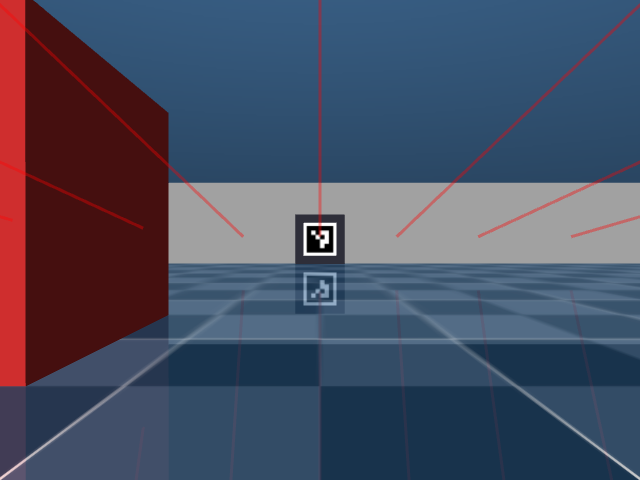
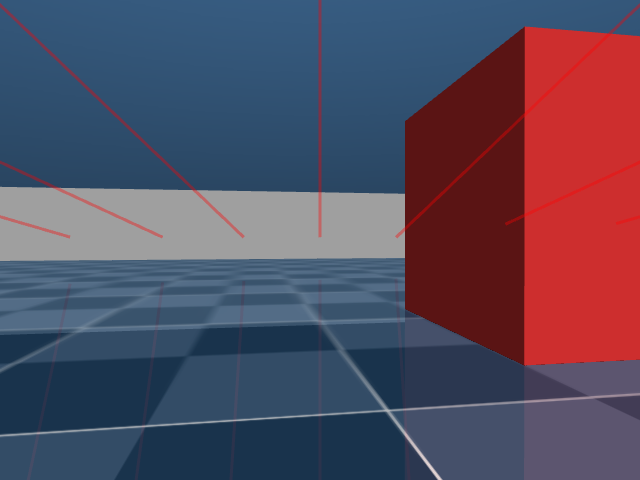
Part A mostly completed

diff --git a/tb3_project/model.py b/tb3_project/model.py
@@ -4,11 +4,12 @@
 #
 # State   x = [x, y, theta]   position in the world frame (m) and heading (rad)
 # Input   u = [v, omega]      forward speed (m/s) and turn rate (rad/s)
-# Robot numbers come from robot/tb3_waffle_pi_sensors.xml:
+# Robot numbers come from robotis_tb3/turtlebot3_waffle_pi.xml:
 
 import numpy as np
 
-r = 0.033      # wheel radius (m)
+
+r = 0.033      # wheel radius m verified in the STL file
 L = 0.288      # wheel separation (m), wheels at y = +0.144 and y = -0.144
 W_MAX = 7.88   # max wheel speed (rad/s)
 
@@ -19,16 +20,16 @@ W_MAX = 7.88   # max wheel speed (rad/s)
 #     v     = r * (w_right + w_left) / 2
 #     omega = r * (w_right - w_left) / L
 def wheels_to_body(w_left, w_right):
-    v = None       # TODO A1
-    omega = None   # TODO A1
+    v = r * (w_right + w_left) /2       
+    omega = r * (w_right - w_left) /L     
     return v, omega
 
 
 def body_to_wheels(v, omega):
     # the inverse of the above. Solve the two equations for w_left and w_right.
     # The controller needs this to turn (v, omega) into wheel commands.
-    w_left = None    # TODO A1
-    w_right = None   # TODO A1
+    w_left = (v - (omega * L) /2 ) / r   
+    w_right = (v + (omega * L) /2) / r
     return w_left, w_right
 
 
@@ -93,8 +94,12 @@ def jacobian_G(x, u, dt):
 # Sanity check on the signs: if the robot is behind the reference, e_x > 0, and a
 # positive dv must make e_x shrink. B[0,0] = -dt does exactly that.
 def linear_error_model(v_ref, omega_ref, dt):
-    A = None   # TODO A4
-    B = None   # TODO A4
+    A = np.array([[ 1,            omega_ref*dt,  0        ],
+          [-omega_ref*dt, 1,             v_ref*dt ],
+          [ 0,            0,             1        ]])
+    B = np.array([[-dt,  0  ],
+          [ 0,   0  ],
+          [ 0,  -dt ]]) 
     return A, B
 
 
@@ -107,16 +112,17 @@ def linear_error_model(v_ref, omega_ref, dt):
 #   * C for "encoders only" (nothing measures x,y,theta directly -> what rank?)
 #   * C = H (the measurement Jacobian from ekf.py) for range+bearing to the marker
 def controllability_matrix(A, B):
-    # TODO A5
-    return None
+    Ctrb = np.hstack([B, A @ B, A @ A @ B])
+    return Ctrb
 
 
 def observability_matrix(A, C):
-    # TODO A5
-    return None
+    Obsv = np.vstack([C, C @ A, C @ A @ A])
+    return Obsv
 
 
 if __name__ == "__main__":
+    import ekf
     # self-checks: run  python model.py
     print("wheels_to_body(5, 5) ->", wheels_to_body(5.0, 5.0), " expect v=0.165, omega=0")
     print("wheels_to_body(-5, 5) ->", wheels_to_body(-5.0, 5.0), " expect v=0, omega=1.146")
@@ -128,3 +134,34 @@ if __name__ == "__main__":
         print("rank Ctrb, v_ref=0.2 ->", np.linalg.matrix_rank(controllability_matrix(A, B)), " expect 3")
         A0, B0 = linear_error_model(0.0, 0.0, 0.02)
         print("rank Ctrb, v_ref=0   ->", np.linalg.matrix_rank(controllability_matrix(A0, B0)), " expect 2")
+        
+        
+        m = np.array([2.888, 0.0])   # dock marker position from sceneforturtle.xml
+        x_test = np.array([0.0, 0.0, 0.0])
+
+        # robot moving forward at 0.2 m/s
+        F_move = jacobian_F(x_test, np.array([0.2, 0.0]), 0.02)
+        
+        # robot parked
+        F_park = jacobian_F(x_test, np.array([0.0, 0.0]), 0.02)
+
+        C_none = np.zeros((1, 3))           # encoders only, nothing measures x, y, theta
+        C_pose = np.eye(3)                  # camera gives x, y, theta directly
+        C_rb = ekf.jacobian_H(x_test, m)    # camera gives range + bearing to the marker
+
+        print("rank Obsv, encoders only        ->", np.linalg.matrix_rank(observability_matrix(F_move, C_none)), " expect 0")
+        print("rank Obsv, full pose            ->", np.linalg.matrix_rank(observability_matrix(F_move, C_pose)), " expect 3")
+        
+        x0 = np.array([0.0, 0.3, 0.2])      # start pose, not lined up with the marker
+        for u_try in [np.array([0.2, 0.0]), np.array([0.2, 0.5]), np.array([0.0, 0.5])]:
+            x1 = f(x0, u_try, 0.02)
+            x2 = f(x1, u_try, 0.02)
+            F0 = jacobian_F(x0, u_try, 0.02)
+            F1 = jacobian_F(x1, u_try, 0.02)
+
+            H0 = ekf.jacobian_H(x0, m)
+            H1 = ekf.jacobian_H(x1, m)
+            H2 = ekf.jacobian_H(x2, m)
+
+            Obsv_traj = np.vstack([H0, H1 @ F0, H2 @ F1 @ F0])
+            print("rank Obsv, range+bearing along path, u =", u_try, "->", np.linalg.matrix_rank(Obsv_traj), " expect 2")     

diff --git a/tb3_project/validatemodel.py b/tb3_project/validatemodel.py
@@ -1,0 +1,37 @@
+import mujoco
+import numpy as np
+from pathlib import Path
+import model as tb3
+
+scene = Path(__file__).parent.parent / "robotis_tb3" / "sceneforturtle.xml"
+mj = mujoco.MjModel.from_xml_path(str(scene))
+data = mujoco.MjData(mj)
+dt = mj.opt.timestep
+
+print("loaded, timestep = ", mj.opt.timestep)
+data.ctrl[:] = [2.0, 4.0] #set both wheel to 3 rad/s 
+
+pose_pred = np.zeros(3)
+prev_left = 0.0
+prev_right = 0.0
+
+for step in range(5000):
+    mujoco.mj_step(mj, data) #moves simulation forward one tick (0.002)
+    
+    left_angle = data.sensordata[0]
+    right_angle = data.sensordata[1]
+    w_left = (left_angle - prev_left) / dt
+    w_right = (right_angle - prev_right) /dt
+    prev_left = left_angle
+    prev_right = right_angle
+    
+    v, omega = tb3.wheels_to_body(w_left, w_right)
+    pose_pred = tb3.f(pose_pred, np.array([v, omega]), dt)
+    
+w, qx, qy, qz = data.qpos[3:7] #rotation stored as a quaternion 
+yaw_true = np.arctan2(2 * (w * qz + qx * qy), 1 - 2 * (qy * qy + qz * qz)) #turns quaternion into heading angle 
+pose_true = np.array([data.qpos[0], data.qpos[1], yaw_true]) #packs all together
+
+print("true pose after 2 s:", pose_true)
+print("model pose after 2 s", pose_pred)
+print("error (model - true)", pose_pred - pose_true)

diff --git a/robotis_tb3/config.py b/robotis_tb3/config.py
@@ -1,0 +1,34 @@
+import numpy as np
+
+#wheel variables
+leftwheelpos = np.array([0, 0.144, 0.033]) #coordinates of wheel in xyz
+rightwheelpos = np.array([0, -0.144, 0.0033])
+wheelseperationL = leftwheelpos[1] - rightwheelpos[1] #distance between wheel
+wheelR = 0.033 #wheel radius
+
+#motors of turtlebot (velocity)
+kv = 5.0 #kv, servo gain
+friction = 0.1 #friction of joints
+armature = 0.01 #extra rotational interia (Instant Speed)
+ctrlrange = [-7.88, 7.88] #maximum range
+wheelspeedmax = ctrlrange[1] #maximum output
+
+maxvelocity = wheelR * wheelspeedmax  #m/s maximum velocity turtle can move
+wmax = 2 * wheelR * wheelspeedmax / wheelseperationL #maximum rad/s on spot
+
+dt = 0.02 #control period s
+physics_dt = 0.002
+steps_perctrl = int(dt / physics_dt)
+
+lidarpos = np.array([-0.049, 0, 0.17]) #position of lidar
+lidaryaw = 0.0
+lidarbeams = 36 
+lidarstep = np.deg2rad(10)
+lidarmaxrange = 3.5
+camerapos= np.array([0.07, 0, 0.15]) #camera 'rgb'
+camerayaw = 0.0 
+camerafovy = 60 #deg
+
+#sensor names in the xml
+encnames = ["enc_left", "enc_right"]
+velnames = ["vel_left", "vel_right"]

diff --git a/robotis_tb3/simulation_turtlebot.py b/robotis_tb3/simulation_turtlebot.py
@@ -5,6 +5,7 @@ import numpy as np
 import cv2
 from spatialmath import SE2
 
+
 model_path = Path(__file__).parent / "sceneforturtle.xml"
 model = mujoco.MjModel.from_xml_path(str(model_path))
 data = mujoco.MjData(model)

diff --git a/README.md b/README.md
@@ -1,2 +1,166 @@
 # 41014-Sensors-and-Control-in-Mechatronics-Systems-Assessment-4-Integrated-Project
 This is a group project. Teams integrate sensing, estimation and control on a simulated platform.
+
+Gabriel: Part A Modelling
+Dinel: Part B Sensing
+Abdul: Part C Estimation 
+Andre:Part D Control
+
+All Group Memebers: We completed the integration and robustness to test all our parts and performance under disturbance noise
+
+Part A Gabriel Modelling Section:
+
+###Robot Defintion:
+Verified Parameters: L (wheel seperation) = 0.288, max commanded wheel speed limits = -7.88, 7.88
+Wheel radius = 0.033m
+Python updates the model every 0.02 seconds
+
+###Assumptions:
+-No Slip: The speed is very low and the contact friction is pretty high enough that the slip is negligible
+
+-Flat Floor: Also being a simulated environment, we can safely assume that the floor we create is flat with no uneven surfaces
+
+-Kinematic Model: In a dynamic model, it would include motor torque, wheel interia, friction, etc... but in a kinematic does not include that, assuming that the v, ω act straight away which the model only tracks position and heading. We assume this as the Turtlebot is small and slow, which the motor have their own speed controllers so the commandedd wheel speed is reached within one dt. 
+
+###States and Inputs: 
+	$$\mathbf{x} = \begin{bmatrix} x \\ y \\ \theta \end{bmatrix}$$
+This state holds where the robot currently is (x,y) and θ is which way the robot faces. All of this is measured in the world frame, with the origin in the starting pose. The units are in m and rad
+
+inputs: 
+	$$\mathbf{u} = \begin{bmatrix} v \\ \omega \end{bmatrix}$$
+The two inputs that the robot takes are the commanded velocity, (how fast it goes foward in m/s) and how fast it turns in rad/s. Positive ω is considered anticlockise
+
+###Controller (Wheels):
+Velocity:
+	$$v = \frac{r(\omega_R + \omega_L)}{2}$$
+
+
+Turn Speed (Omega)
+	$$\omega = \frac{r(\omega_R - \omega_L)}{L}$$
+
+The controller can only work in v and ω, due to how the error model is designed. The MuJoCo robot can only accept left and right wheel speeds. The two formulas convert one to the other as v is the average between the two wheel rim speeds which their difference is divided by the gap between the wheels.
+
+
+###Inverse
+
+Left Wheel: 
+	$$\omega_L = \frac{v - \omega L/2}{r}$$
+
+Right Wheel:
+	$$\omega_R = \frac{v + \omega L/2}{r}$$
+
+We can get the individual wheel speeds by taking the inverse of the above equations. Body To wheels. This is used in every control step to send wheel commands to the robot.
+
+
+###Continous Time Model
+
+$$\dot{x} = v\cos\theta$$
+
+$$\dot{y} = v\sin\theta$$
+
+$$\dot{\theta} = \omega$$
+
+Above is the standard unicycle model, where the robot can only move along its heading and spin, but can't move sideways. These models are not linear due to v being multiplied by cos θ and sin θ, which is an input multiplied by a function of a state. This matters as the EKF and LQR requires a linear model which we have to linearise.
+
+We have two linearisations, one used by the EKF and one used by the LQR.
+
+###Linearisations 1 -  Jacobians F and G
+The idea is that near the current estimate, we replace the curved function f with its slopem which the slope of the function of several variables is a matrix of partial deratives which we get the Jacobians F and G.
+
+$$x_{k+1} = x_k + v_k\Delta t\cos\theta_k$$
+
+$$y_{k+1} = y_k + v_k\Delta t\sin\theta_k$$
+
+$$\theta_{k+1} = \theta_k + \omega_k\Delta t$$
+
+From the discrete model, we differentiated each line with respect to each state to get the Jacobian F
+
+$$F = \frac{\partial f}{\partial \mathbf{x}} = \begin{bmatrix} 1 & 0 & -v_k \Delta t \sin\theta_k \\ 0 & 1 & v_k \Delta t \cos\theta_k \\ 0 & 0 & 1 \end{bmatrix}$$
+
+F Jacobian describes how small errors in the robots current positon an headidng affect its next predricted pose. 
+
+From this, we can call F[0,2] and F[1,2] to tell the EKF how far off x and y end up if theat is slightly wrong, which is scaled by the distance moved that step (v Δt) which is the Jacobian_F() function in model.py.
+
+Then we differentiated each line with respect to each input to get Jacobian G
+
+
+$$G = \frac{\partial f}{\partial \mathbf{u}} = \begin{bmatrix} \Delta t \cos\theta_k & 0 \\ \Delta t \sin\theta_k & 0 \\ 0 & \Delta t \end{bmatrix}$$
+
+
+This Jacobian, pretty much maps the uncertainty or small changes in the speed andd yaw rate into each pose step. Each column represnts an input with each row representing a  state. 
+
+Column 0 (v), pushes the speed up a bit, moving along the heading via cos θ / sin θ.Column 1 (ω), pushes the turn rate up a bit by only θ changes by Δt per unit of ω.
+
+F and G are recomputedd every step at the current estimate and input because they depend on θ and v. These are used by the EKF, which uses them in the predict step F to push the covariance forward and G to add the input noise. 
+
+
+###Linearisations 2 -  Error Model A and B (LQR)
+Unfortunately LQR cannot use F and G directly as they both depend on θ (which is constantly changing) so insteadd we model the error to the reference path in the robots own current frame where it stays nearly linear. 
+
+First we define the error rotated into the robot frame
+
+$$\mathbf{e} = \begin{bmatrix} e_x \\ e_y \\ e_\theta \end{bmatrix}, \qquad \delta\mathbf{u} = \begin{bmatrix} v - v_{ref} \\ \omega - \omega_{ref} \end{bmatrix}$$
+
+e_x means how far behind/ahead of the reference point, e_y = how far left/right, e_θ = the heading error of the robot and δu represents the adjustments to the forward speed and turning rate relative to their reference values
+
+Then we differentiate the tracking errors to obtain their dynamics. Small angle approximations were applied, and products of two small terms were neglected
+Euler discretisation was applied using the update interval Δt to obtain the discrete A and B matrices.
+
+   $$\mathbf{e}_{k+1} = A\,\mathbf{e}_k + B\,\delta\mathbf{u}_k$$
+   $$A = \begin{bmatrix} 1 & \omega_{ref}\Delta t & 0 \\ -\omega_{ref}\Delta t & 1 & v_{ref}\Delta t \\ 0 & 0 & 1 \end{bmatrix}$$
+   $$B = \begin{bmatrix} -\Delta t & 0 \\ 0 & 0 \\ 0 & -\Delta t \end{bmatrix}$$
+
+Ff the reference is ahead, e_x is positive so the robot must speed up (δv > 0) to reduce e_x. For a positive δv to make e_x smaller, B[0,0] has to be negative, which gives B[0,0] = −Δt.
+
+No input moves the robot sideways, which is why row 2 of B is zero. To reduce e_y it must first turn (e_θ) and then drive forward; this link is the A[1,2] = v_ref Δt term. If v_ref = 0 that entry is 0 and e_y cannot be corrected, which is why the system is not fully controllable when stopped.
+
+This is the linear_error_model() function in model.py which returns A and B. 
+
+###Meausrement Model
+The camera detects an ArUco marker at the known world position (m_x, m_y). The measurement model predicts the planar range ρ and relative bearing β to this marker from the robot’s position and heading. In this model, both measurements are defined relative to the robot’s reference point.
+
+
+$$z = h(\mathbf{x}) = \begin{bmatrix} \rho \\ \beta \end{bmatrix} = \begin{bmatrix} \sqrt{(m_x - x)^2 + (m_y - y)^2} \\ \operatorname{atan2}(m_y - y,\; m_x - x) - \theta \end{bmatrix}$$
+
+
+The EKF requires the Jacobian H of the measurement function h with respect to the state. This matrix describes how small changes in the estimated position and heading affect the predicted range and bearing.
+
+$$H = \frac{\partial h}{\partial \mathbf{x}} = \begin{bmatrix} -\dfrac{m_x - x}{\rho} & -\dfrac{m_y - y}{\rho} & 0 \\[8pt] \dfrac{m_y - y}{\rho^2} & -\dfrac{m_x - x}{\rho^2} & -1 \end{bmatrix}$$
+
+The first row of H describes changes in range. Moving towards the marker decreases the range, while moving away increases it. The second row describes changes in bearing caused by sideways movement relative to the marker or by rotation. Its final entry is −1 because increasing the robot’s heading decreases the marker’s relative bearing by the same angle.
+
+The measurement prediction is implemented in h(), while its Jacobian is calculated by jacobian_H(). These functions are used during the EKF measurement update.
+
+###Controllability
+
+Controllability describes whether the available inputs can move the tracking-error state from any initial value to a desired value, including zero. For this three-state model, the controllability matrix must have rank 3.
+
+$$\mathcal{C} = \begin{bmatrix} B & AB & A^2B \end{bmatrix}$$
+
+| Case | rank | Controllable? |
+|---|---|---|
+| v_ref = 0.2 m/s | 3 | yes |
+| v_ref = 0 | 2 | no |
+
+When both reference speeds are zero, the second row of B is zero and there is no coupling from heading error into lateral error. Therefore, e_y remains unchanged in the stationary linearised model. Only two independent error directions can be controlled, giving a controllability rank of 2.
+
+For docking, this means that an LQR controller designed around a stationary reference cannot correct a remaining lateral offset. The robot should correct its lateral alignment during the approach and stop once it reaches the required docking pose. This does not mean the robot must move continuously: if it stops with a sideways offset, it can still turn and drive again using an appropriate manoeuvre.
+
+###Observability
+
+Observability describes whether the robot’s states can be determined from the available measurements and known inputs over time. For the three-state pose model, an observability rank of 3 means that all three states are locally observable.
+
+$$\mathcal{O} = \begin{bmatrix} C \\ CF \\ CF^2 \end{bmatrix}$$
+
+| Measurement | C | rank | Observable? |
+|---|---|---|---|
+| Encoders only | 0 (nothing measures x, y, θ) | 0 | no |
+| Camera full pose | I₃ | 3 | yes |
+| Camera range + bearing, robot moving | H along the path | [fill from your run] | |
+| Camera range + bearing, turning on the spot | H along the path | [fill from your run] | |
+
+Encoders measure wheel rotation rather than absolute position or heading. Without an external pose measurement, errors accumulate as odometry propagates the estimate. The terms F[0,2] and F[1,2] show how heading uncertainty becomes position uncertainty while the robot moves.
+
+Range and bearing to one known point do not fully determine the robot’s world pose. Different positions around the marker, with corresponding headings, can produce the same measurements. This ambiguity remains during motion, giving an observability rank of 2. Using the marker’s orientation through a full-pose measurement, or observing another known landmark, can resolve the remaining ambiguity.
+
+When the marker leaves the camera’s view, the EKF continues predicting the pose from wheel odometry without a camera correction. Uncertainty generally increases as motion errors accumulate. When a valid marker measurement becomes available again, the EKF resumes measurement updates to correct the estimate.
